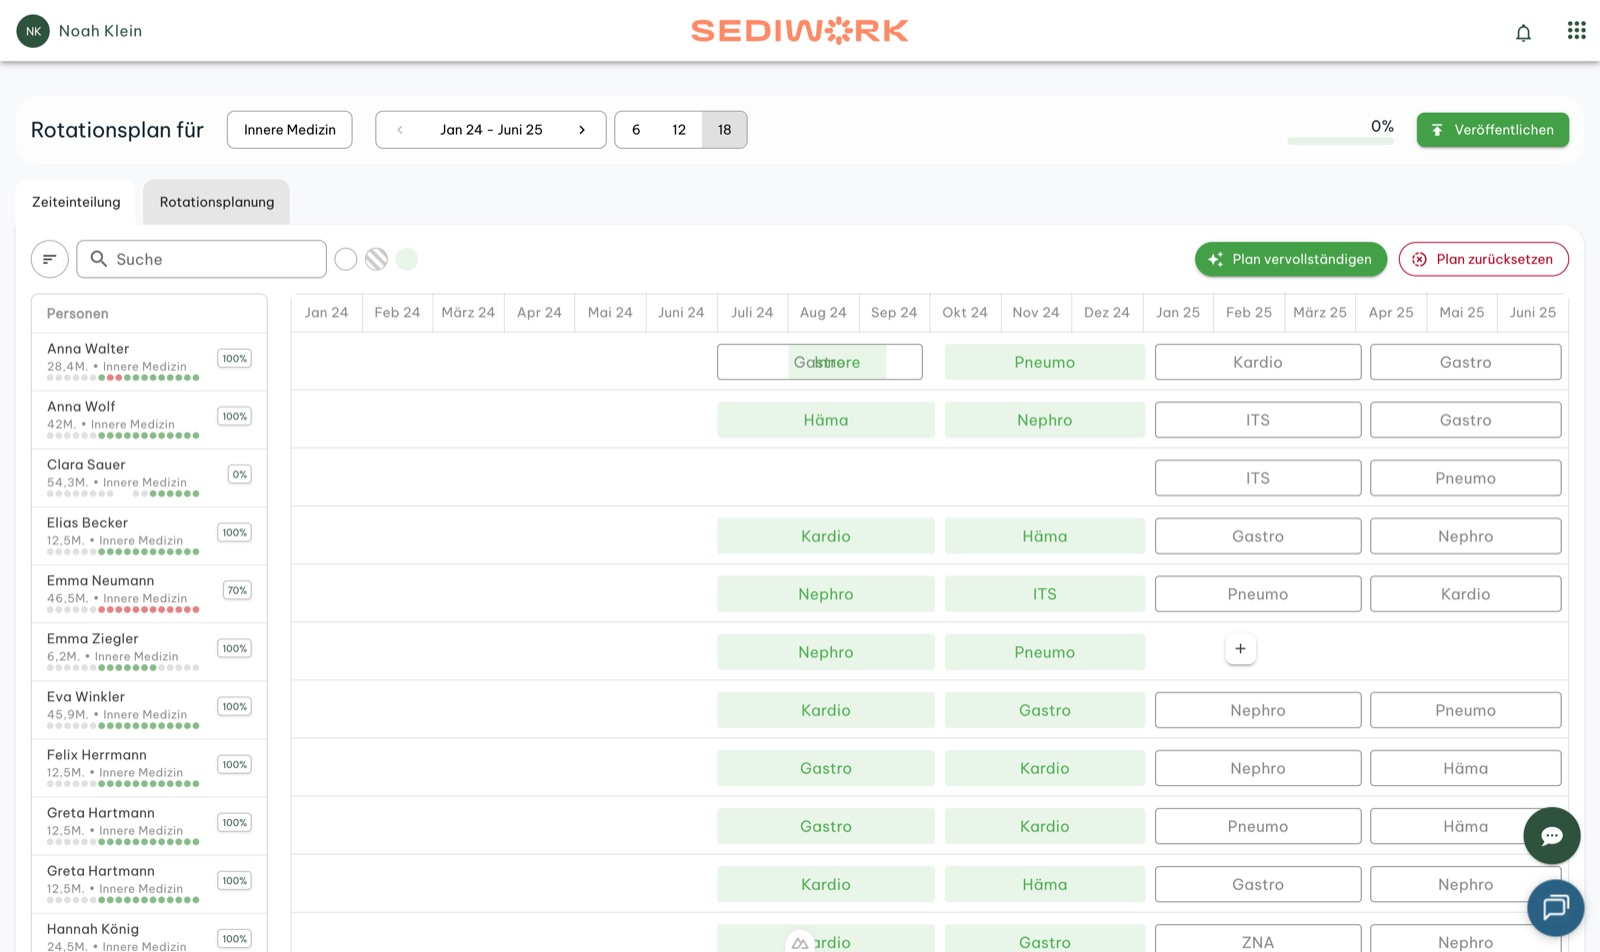
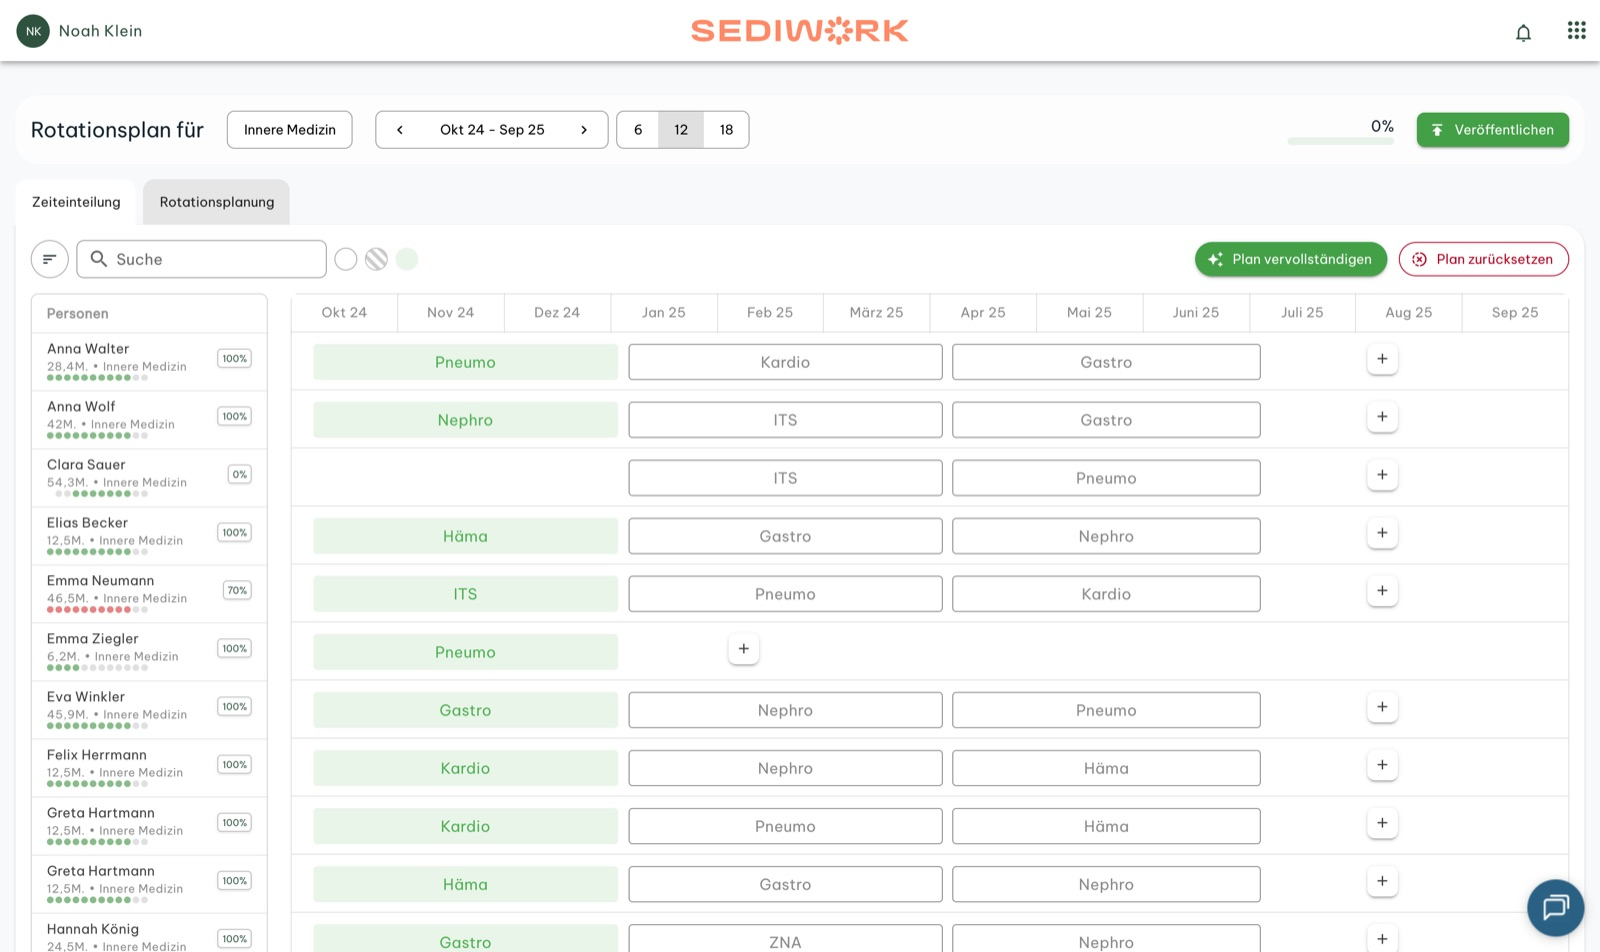
Use retaken 12-month rotation timeline screenshot

diff --git a/info.js b/info.js
@@ -227,7 +227,7 @@ let info = {
         },
         {
           title: "Rotation timeline",
-          text: "The screen planners use most: an 18-month timeline with one row per doctor in training. I refactored the timespan table for smoother manual planning on large clinics, improved readability in the 6/12/18-month views, added navigation shortcuts and favourites, and fixed a series of data-consistency bugs."
+          text: "The screen planners use most: a 6, 12 or 18-month timeline with one row per doctor in training. I refactored the timespan table for smoother manual planning on large clinics, improved readability in the 6/12/18-month views, added navigation shortcuts and favourites, and fixed a series of data-consistency bugs."
         },
         {
           title: "Clinic structure, staff and profiles",
@@ -245,7 +245,7 @@ let info = {
         { img: require("./src/assets/portfolio/sediwork-v3/staffing-board.jpg"), alt: "SEDIWORK staffing board with monthly staffing results per department", caption: "Staffing board: core staff and rotating doctors per department and month, with the result row showing staffing levels" },
         { img: require("./src/assets/portfolio/sediwork-v3/daily-shift-plan.jpg"), alt: "SEDIWORK daily shift plan with rule-violation warnings", caption: "Daily shift plan: shifts per day, capacity per shift and warning badges for rule violations" },
         { img: require("./src/assets/portfolio/sediwork-v3/compact-view.jpg"), alt: "SEDIWORK compact month view coloured by staffing", caption: "Compact month view I designed and built: a whole month of staffing on one screen" },
-        { img: require("./src/assets/portfolio/sediwork-v3/rotation-timeline.jpg"), alt: "SEDIWORK 18-month rotation timeline", caption: "Rotation timeline: 18 months, one row per doctor in training" },
+        { img: require("./src/assets/portfolio/sediwork-v3/rotation-timeline.jpg"), alt: "SEDIWORK 12-month rotation timeline", caption: "Rotation timeline in the 12-month view, one row per doctor in training" },
         { img: require("./src/assets/portfolio/sediwork-v3/unit-planning.jpg"), alt: "SEDIWORK unit planning inside a clinic", caption: "Unit planning for wards and teams below the department level" },
         { img: require("./src/assets/portfolio/sediwork-v3/rotating-staff.jpg"), alt: "SEDIWORK list of rotating staff", caption: "Rotating staff list with filters, experience and account status" },
         { img: require("./src/assets/portfolio/sediwork-v3/clinic-structure.jpg"), alt: "SEDIWORK clinic structure organisation chart", caption: "Clinic structure from hospital group down to departments and units" }
